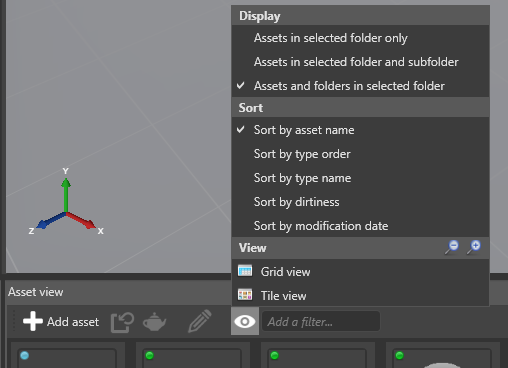
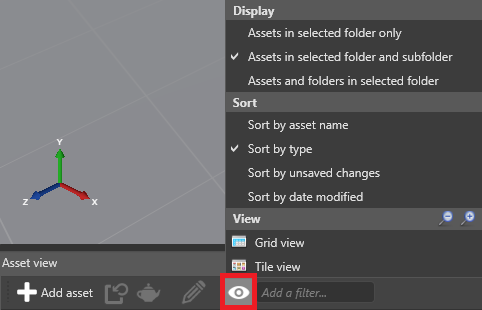
[Get started] manage-assets.md - more options details, new screenshot

diff --git a/manual/get-started/manage-assets.md b/manual/get-started/manage-assets.md
@@ -100,8 +100,8 @@ To change the asset view options, click the eye icon in the asset view toolbar.
 
 You can:
 
-* display assets in the selected folder only, the selected folder and subfolder, 
-* sort assets by name, type order, type name, dirtiness (assets with unsaved changes), and modification date
+* display assets in the selected folder only, the selected folder and subfolder 
+* sort assets by name, type, unsaved changes, and modification date
 * switch between tile view (default) and grid view
 
 ## Filter assets
